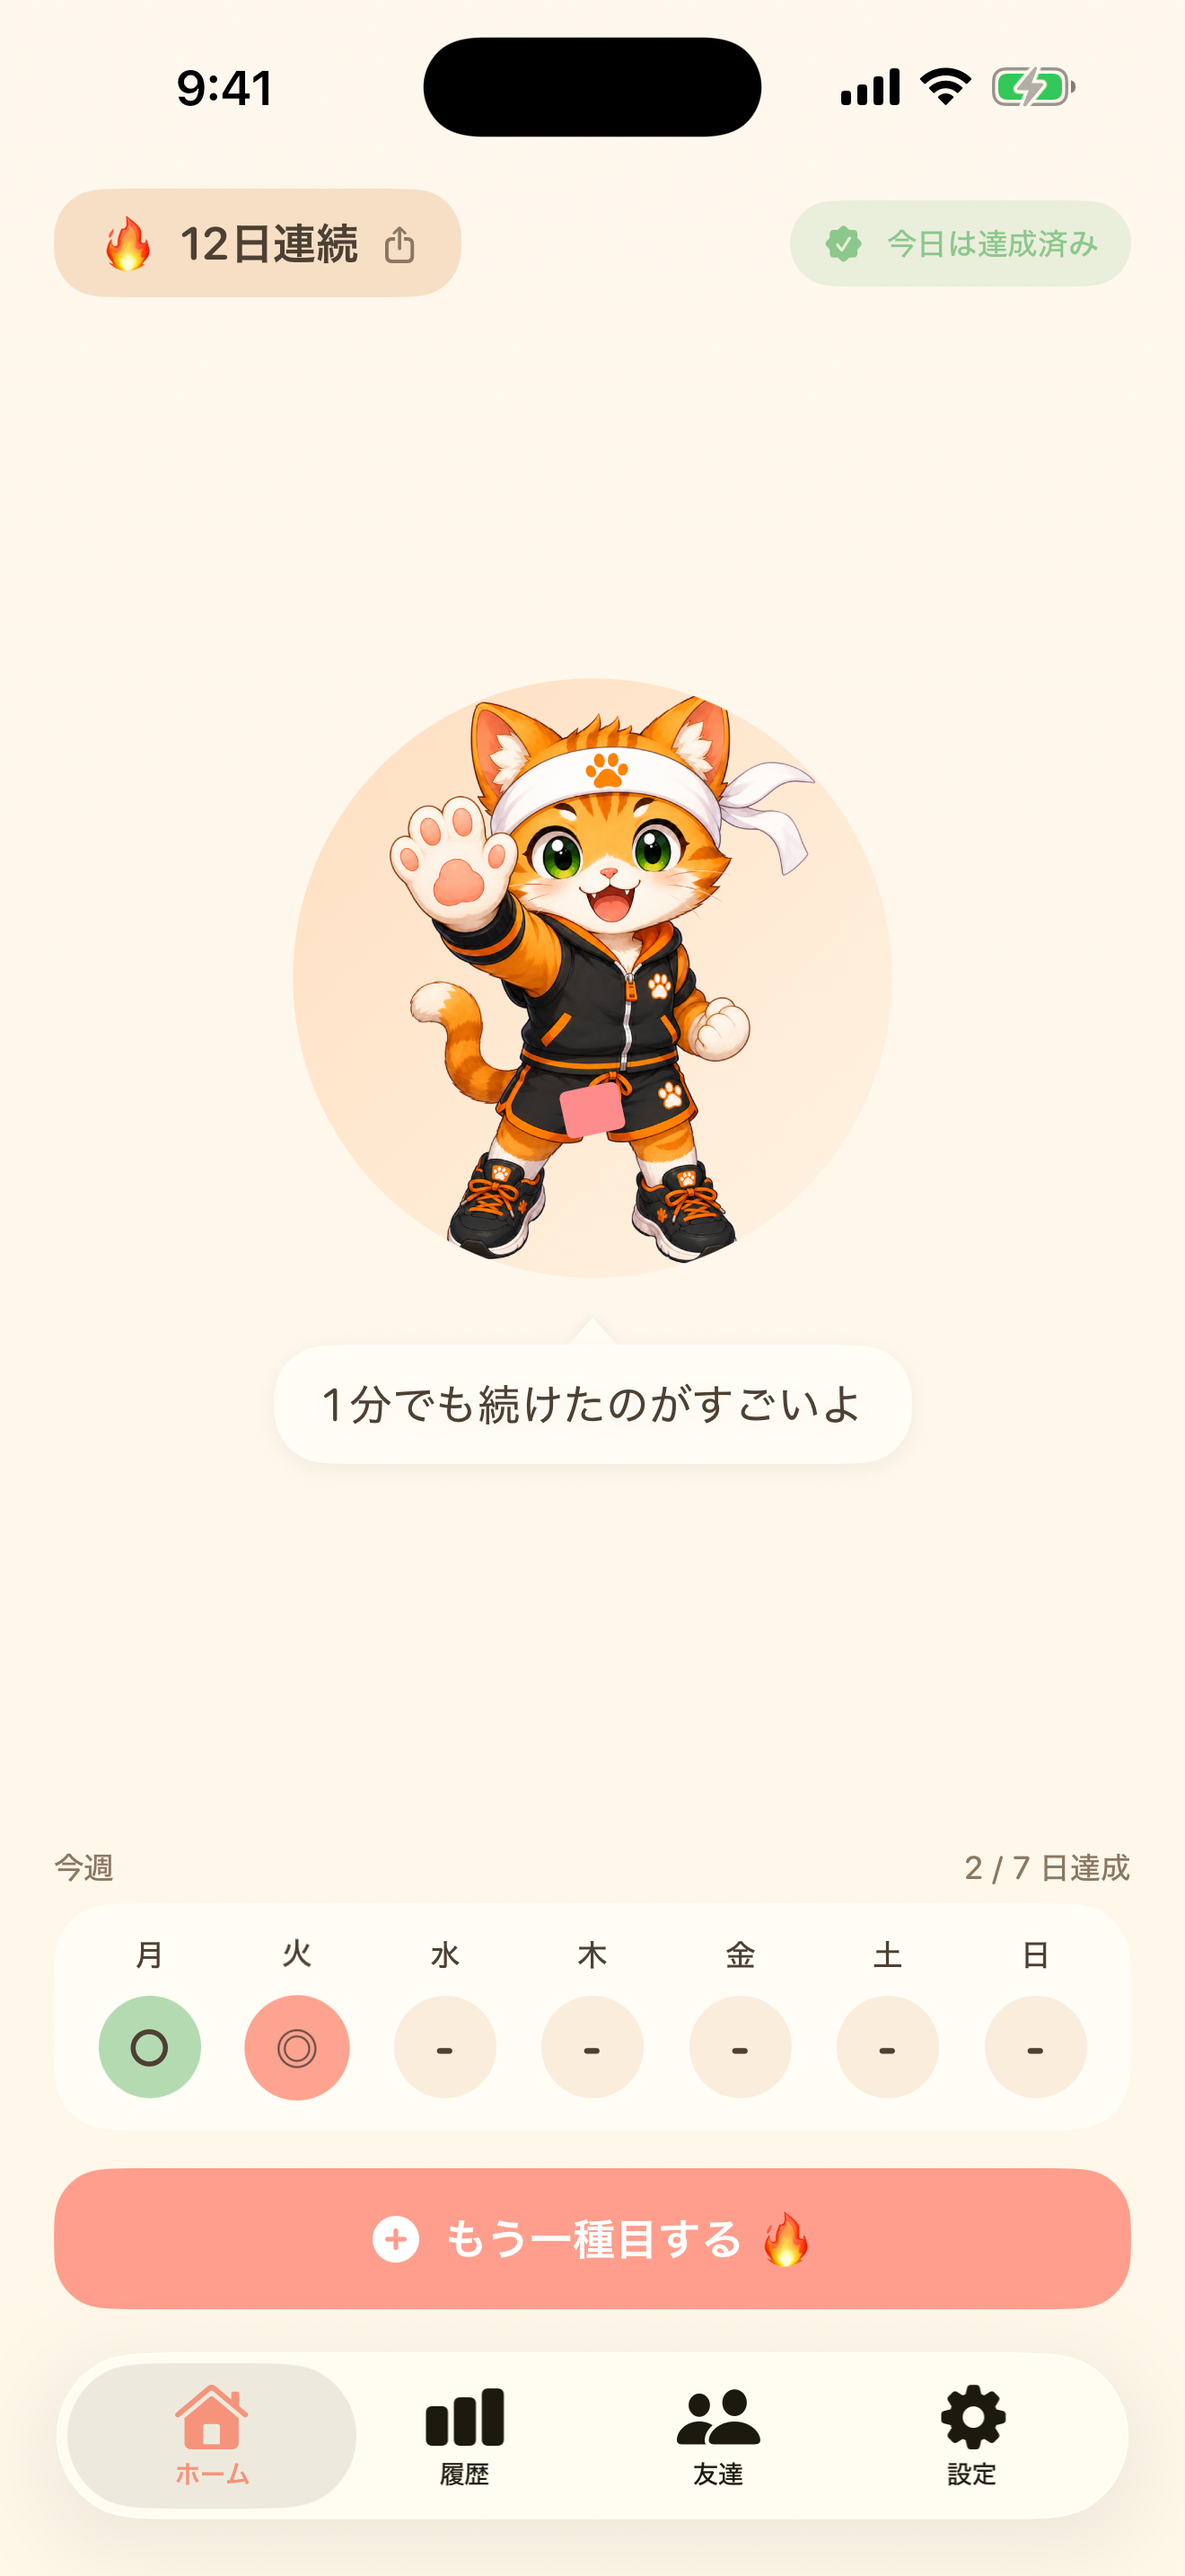
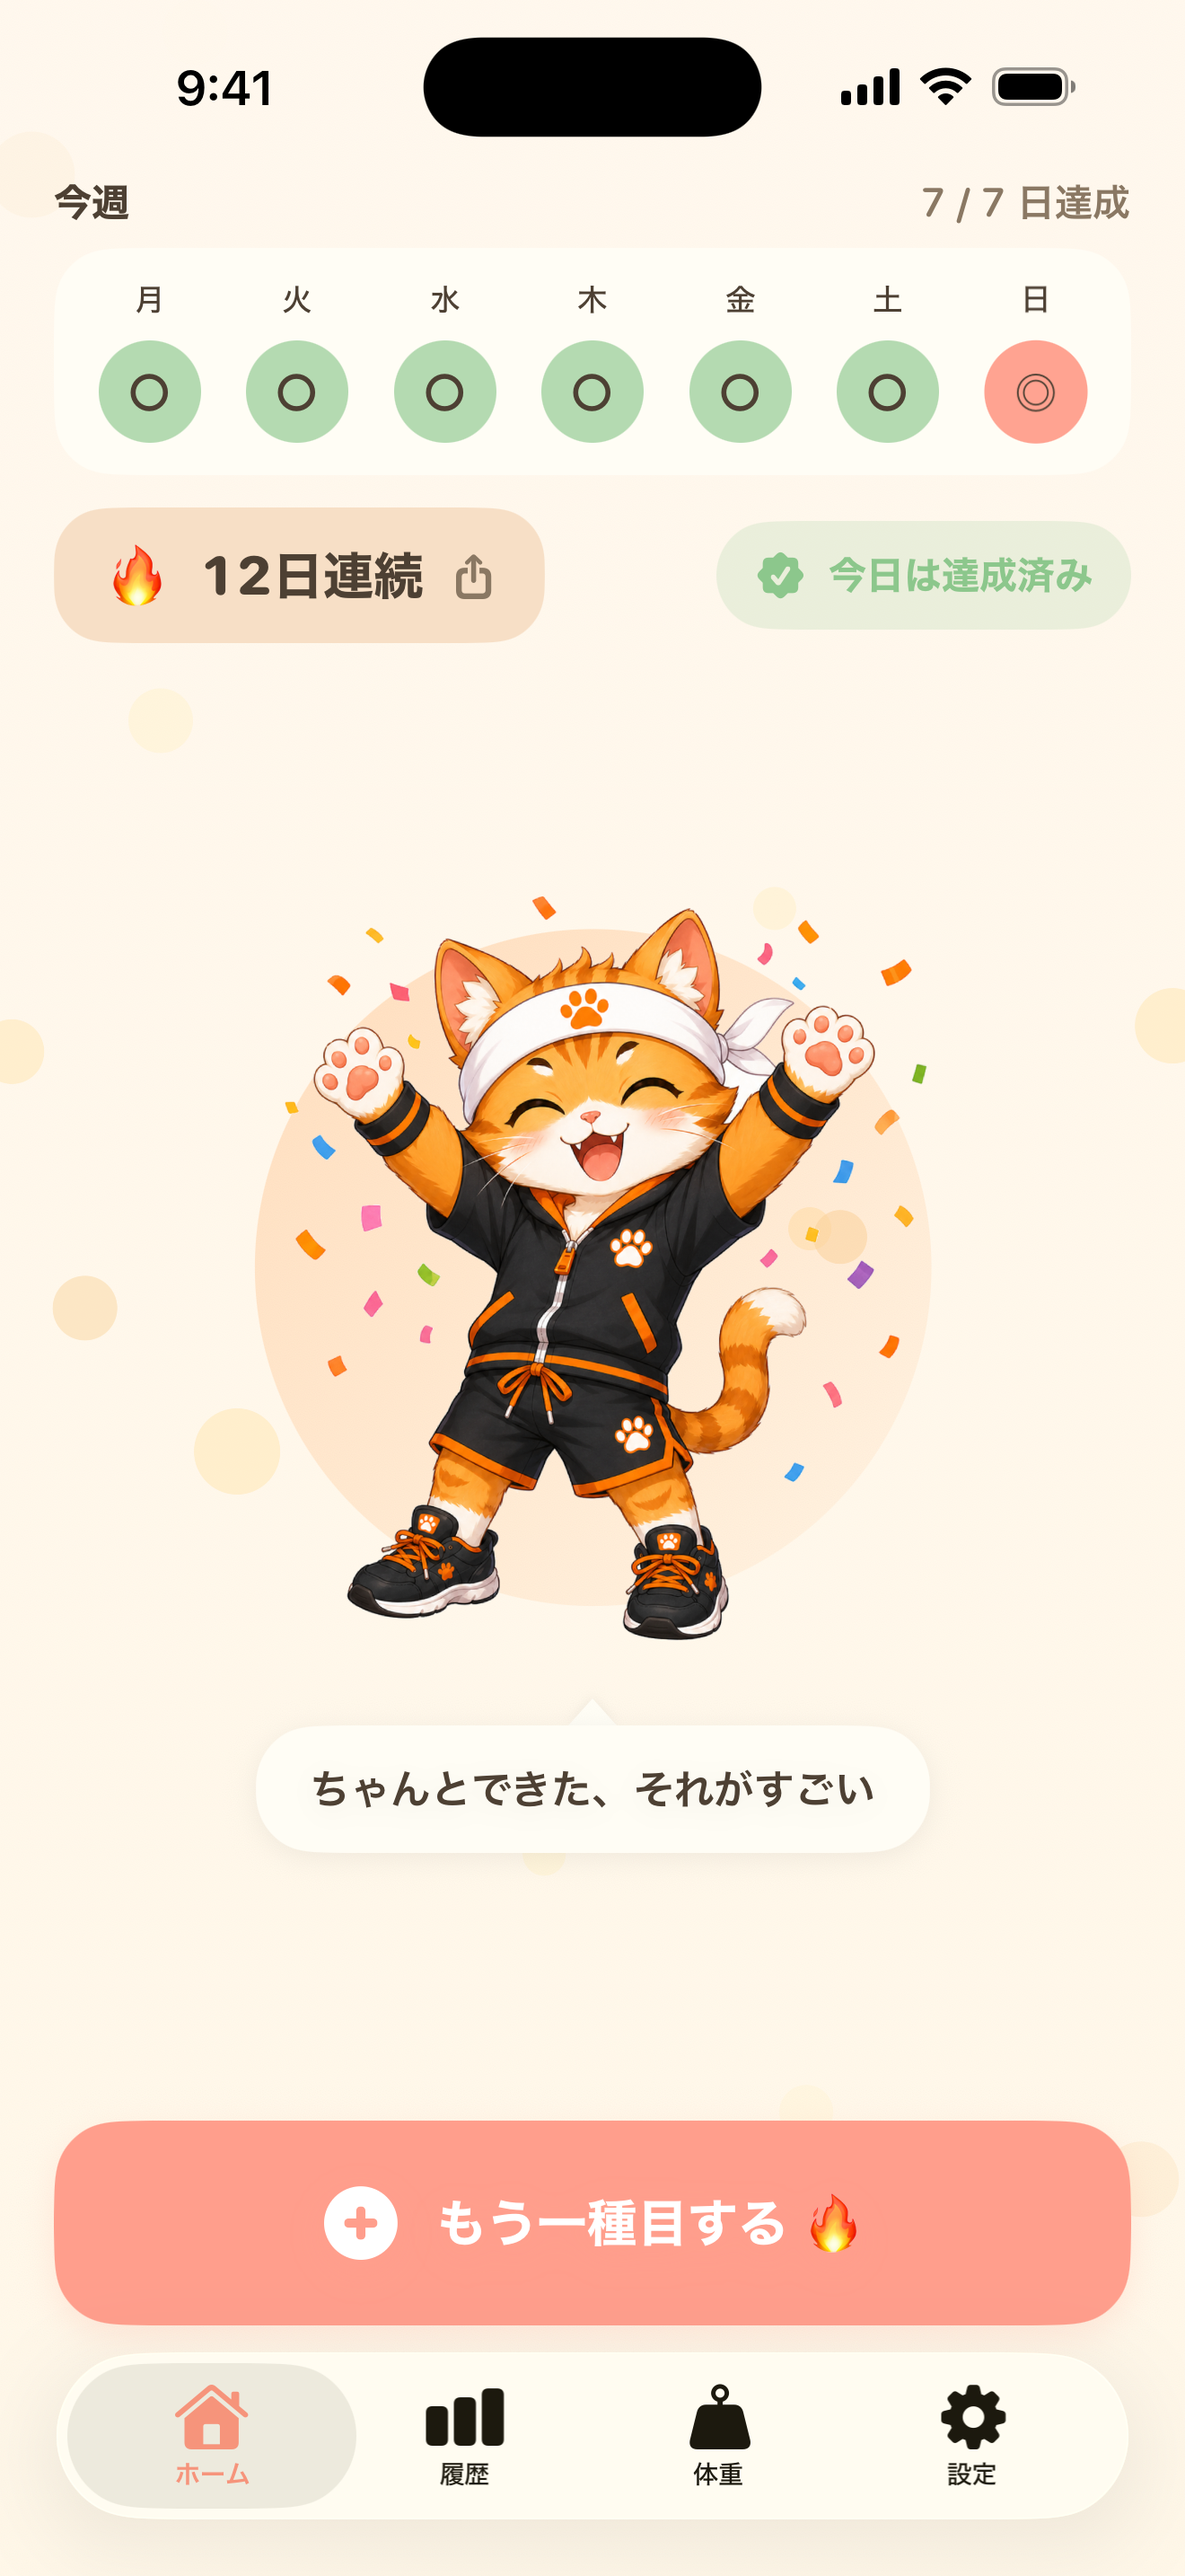
assets(submission): 現行ブランドでスクショ全面再撮影・提出セット刷新
旧スクショはリブランド前(旧名「シリアルエクササイズ」・開発中プレース
ホルダ文「利用規約は今後追加」・iPad に Apple Intelligence バナー・友達
画面混入)で提出不可だった。iPhone 17 Pro Max / iPad Pro 13" シミュレータ
で現行 GO エクササイズ ビルドを --skip-onboarding --seed-demo-data 起動し、
ステータスバーを 9:41 にクリーン化して再撮影。

- iphone-6.9/ (1320×2868): 01_home / 02_streak_share / 03_record /
  04_history / 05_settings / 06_paywall の6枚
- ipad-13/ (2064×2752): 01_home..05_settings の5枚
- 通知設定画面(未許可警告が出る)と友達画面(v1非表示)は不採用
- 旧セットは _archive/stale_prerebrand/ に退避(削除せず温存)
- app_store_metadata_v1.md のスクショ節を新ファイル名・推奨順に更新

diff --git a/submission/app_store_metadata_v1.md b/submission/app_store_metadata_v1.md
@@ -193,22 +193,33 @@ v1 は友達機能を非表示で出荷し、解析 SDK も一切組み込んで
 
 ### v1 提出セット (友達スクショは使わない)
 
-友達タブは非表示なので、以下 **5 枚** を提出 (各サイズ共通の構成):
+**2026-05-31 に現行ブランド (GO エクササイズ) で全面再撮影済み** (iPhone 17 Pro Max /
+iPad Pro 13" シミュレータ、ステータスバー 9:41 にクリーン化、`--skip-onboarding
+--seed-demo-data` で 12日連続デモ投入)。旧セット (旧名「シリアルエクササイズ」・
+開発中プレースホルダ文・Apple Intelligence バナー・友達画面混入) は
+`_archive/stale_prerebrand/` に退避済み。
 
-1. `01_home_demo.png` — ホーム (連続記録 + 週間カレンダー + 猫)
-2. `02_record_entry.png` — 記録入力 (カテゴリ選択 + 種目入力)
-3. `03_history.png` — 履歴 / 月間カレンダー
-4. `04_settings.png` — 設定 (テーマ・通知など)
-5. `05_notification_settings.png` — 通知設定
+### iPhone 6.9" — `submission/screenshots/iphone-6.9/` (この順で 6 枚)
 
-> ❌ 使わない (友達が写っている / v1 非表示): iphone-6.9/ 内の
-> `01_home.png` `02_record.png` `03_friends.png` `04_friend_detail.png` `05_weekly_ranking.png` `06_history.png`
-> (これらは友達版用。v1 では `_demo` / `_entry` / `04_settings` / `05_notification_settings` を使う)
->
-> 任意: ペイウォール `01_paywall_6.9.png` (1320×2868) を訴求に加えてもよい (サブスク説明用)。
+1. `01_home.png` — ホーム (万歳猫 + 12日連続 + 週間カレンダー) ★ヒーロー
+2. `02_streak_share.png` — 連続記録シェアカード (グラデ + 1週間達成 + 猫) ★訴求力高
+3. `03_record.png` — 記録入力 (カテゴリ + よく使う種目 + 体重欄)
+4. `04_history.png` — 履歴 (月間カレンダー: 達成/休養/未達成)
+5. `05_settings.png` — 設定 (GOプレミアム導線 + テーマ + キャラ変更)
+6. `06_paywall.png` — GOプレミアム ペイウォール (サブスク訴求)
 
-撮影元は Xcode Simulator (`xcrun simctl io booted screenshot`)。
-最終アイコン確定後に 6.9" で取り直すのが理想 (現状セットでも提出は可能)。
+### iPad 13" — `submission/screenshots/ipad-13/` (この順で 5 枚)
+
+1. `01_home.png` 2. `02_streak_share.png` 3. `03_record.png` 4. `04_history.png` 5. `05_settings.png`
+
+> 💡 App Store 製品ページで目立つのは**最初の3枚**。`01_home`→`02_streak_share`→`03_record`
+> の並びを推奨 (猫の魅力 → 達成感 → 使い方)。順序は ASC 上でドラッグ変更可。
+> ❌ 通知設定画面は「通知が許可されていません」警告が出るため不採用。友達画面は v1 非表示のため不採用。
+
+再撮影コマンド (参考): `xcrun simctl launch <UDID> com.goexercise.app --seed-demo-data
+--no-notification-prompt --skip-onboarding [--initial-route record|history|settings|streak-share]`
+→ `xcrun simctl io <UDID> screenshot <out.png>`。
+最終アイコン確定後にもう一度撮り直すのが理想 (現状セットで提出は可能)。
 
 ---
 
